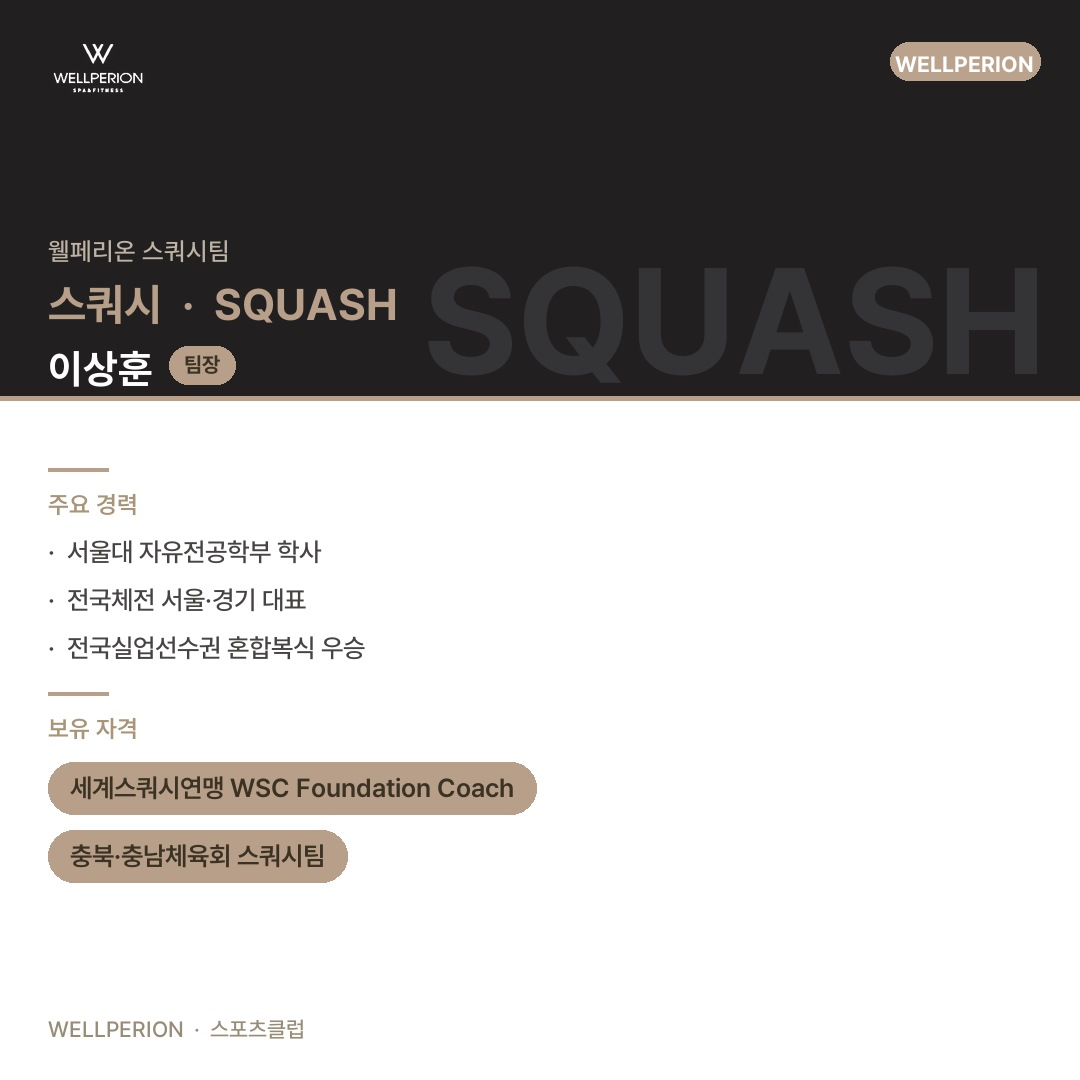
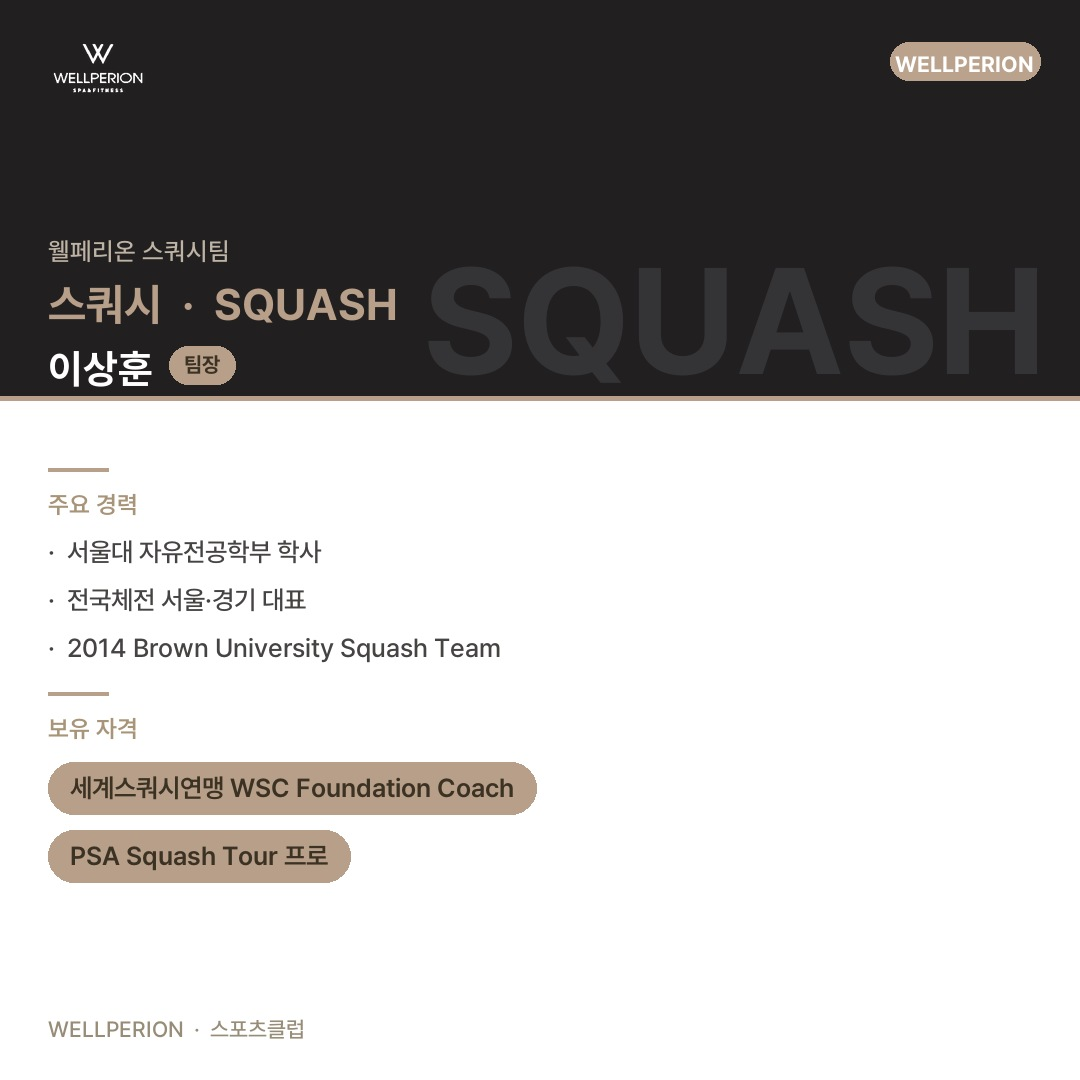
chore(cmo): 방학특강 Ep3 스쿼시 이상훈 경력·자격 정정 (Brown Univ Squash Team·PSA Tour 프로, GM 지시)

Changed region(s): [[0.0611, 0.7639, 0.3056, 0.825], [0.0611, 0.5806, 0.4583, 0.6111]]

diff --git a/instagram/260701_여름방학특강_ep3/build_slides.py b/instagram/260701_여름방학특강_ep3/build_slides.py
@@ -55,8 +55,8 @@ COACHES = [
      ["前 기계체조 국가대표 상비군", "전국체전 단체종합 우승 다수", "크로스핏 키즈 코치 역임"],
      ["유아체육 지도자 1급", "크로스핏 레벨1 트레이너"]),
     ("스쿼시", "SQUASH", "이상훈", "스쿼시팀",
-     ["서울대 자유전공학부 학사", "전국체전 서울·경기 대표", "전국실업선수권 혼합복식 우승"],
-     ["세계스쿼시연맹 WSC Foundation Coach", "충북·충남체육회 스쿼시팀"]),
+     ["서울대 자유전공학부 학사", "전국체전 서울·경기 대표", "2014 Brown University Squash Team"],
+     ["세계스쿼시연맹 WSC Foundation Coach", "PSA Squash Tour 프로"]),
     ("골프", "GOLF", "최현준", "골프팀",
      ["KPGA 프로 · JGTO 해외투어 활동", "이글 스포렉스 삼성동 소속프로", "충북 주니어선수권 1위"],
      ["한국프로골프협회 KPGA 프로", "유원대학교 골프전공"]),
